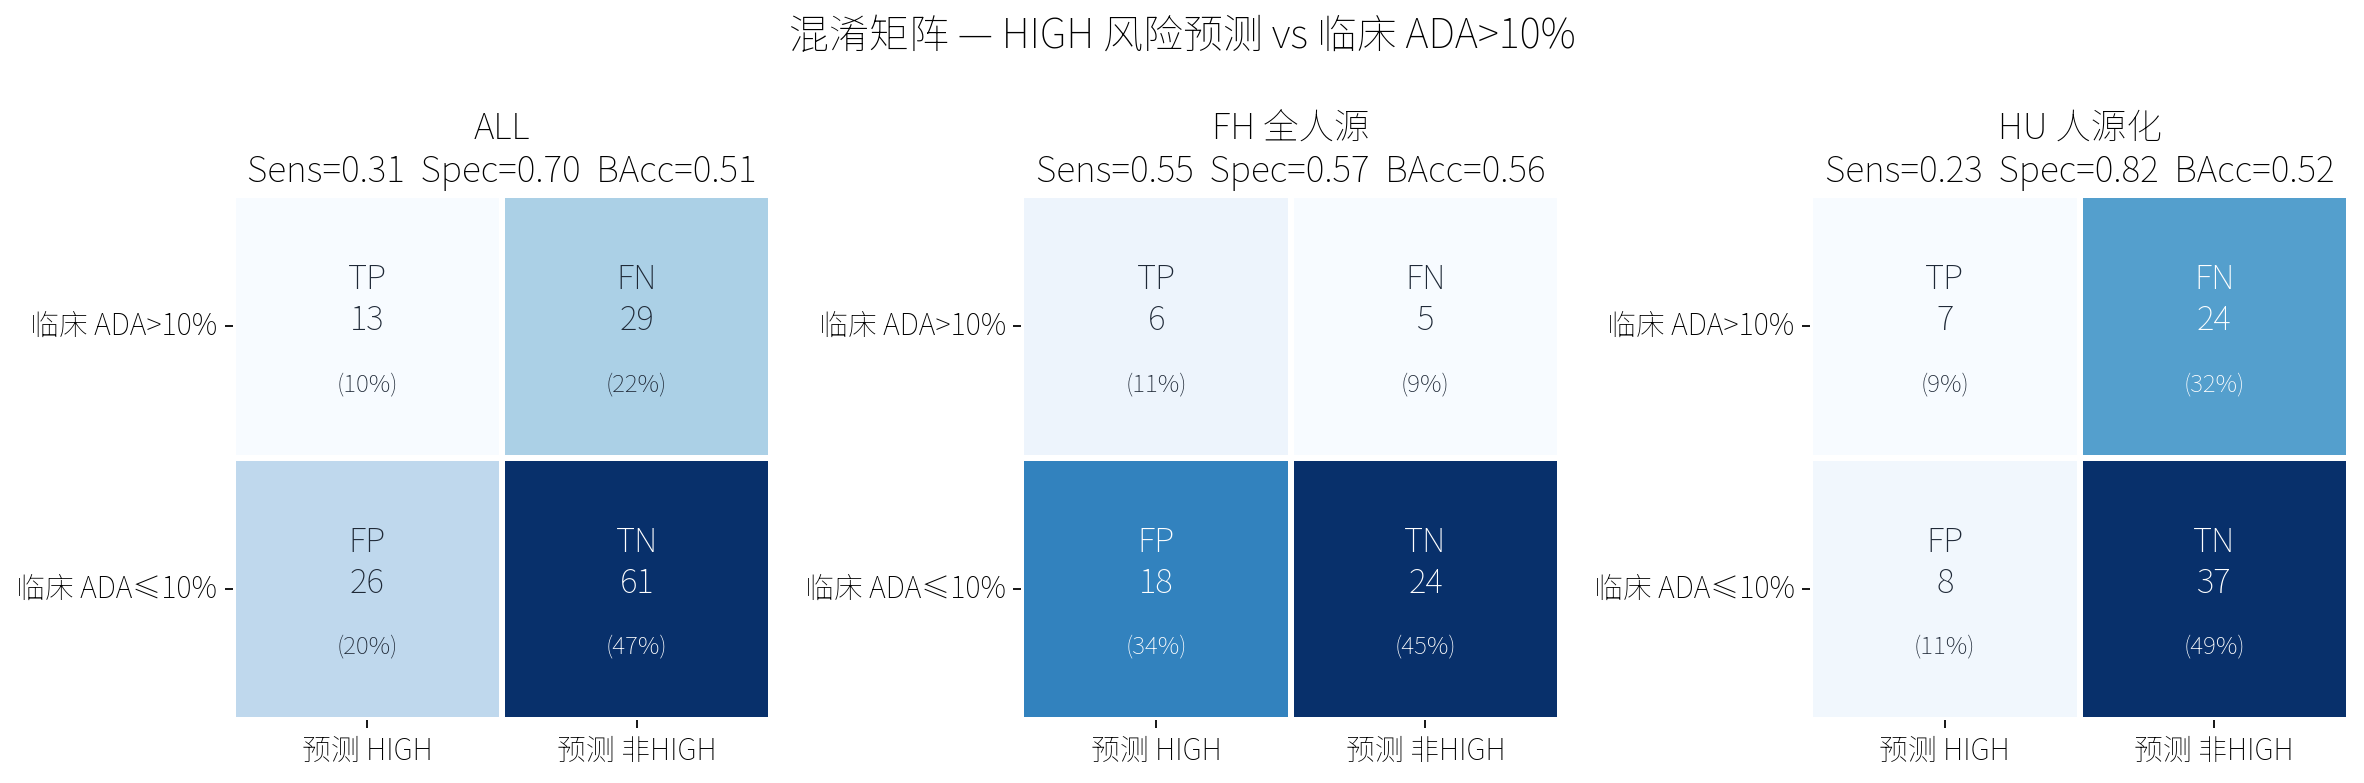
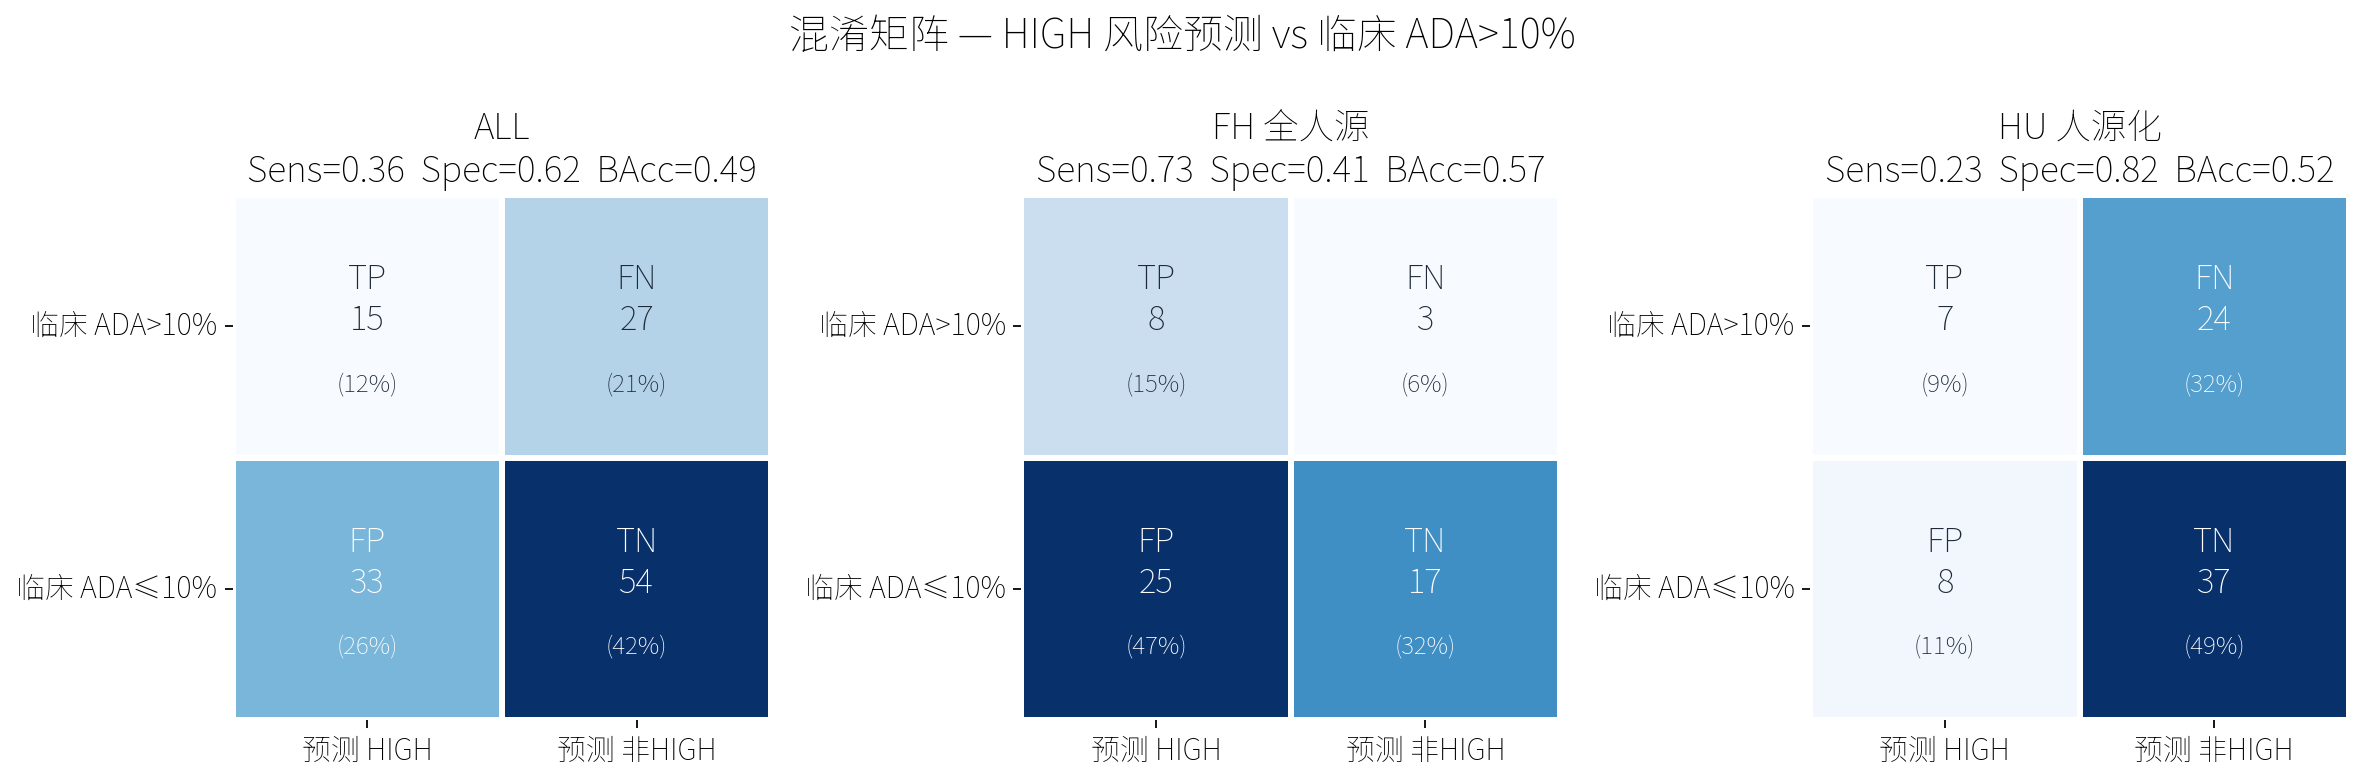
Upgrade to ADA V2.1: Optimized FH weights (I=35%, P=30%) + Midpoint correction (0.32); Updated benchmark plots

diff --git a/Therasik_Immunogenicity.html b/Therasik_Immunogenicity.html
@@ -376,24 +376,24 @@
 
       <div class="insight-grid" style="grid-template-columns: repeat(auto-fill, minmax(200px, 1fr)); gap: 14px; margin-bottom: 24px;">
         <div class="insight-card" style="background:#fff;">
-          <span class="ic-label">① 界面稳定性（权重 30%）</span>
-          <div class="ic-value" style="font-size:22px;">ρ = +0.339</div>
-          <div class="ic-desc">VH-VL 接触对数 · p=0.018 <strong>（最强信号）</strong>。Vernier Zone 支撑的界面越紧密，ADA 越高。</div>
+          <span class="ic-label">① 界面稳定性（权重 35%）</span>
+          <div class="ic-value" style="font-size:22px;">ρ = +0.369</div>
+          <div class="ic-desc">VH-VL 接触对数 · p=0.007 <strong>（极显著）</strong>。界面接触数越少，解离风险越高，ADA 呈显著正相关。</div>
         </div>
         <div class="insight-card" style="background:#fff;">
-          <span class="ic-label">② 种系偏离度（权重 27%）</span>
-          <div class="ic-value" style="font-size:22px;">ρ = −0.313</div>
-          <div class="ic-desc">VL 胚系同一性 · p=0.031。SHM 越多，偏离人类库越远，ADA 越高。</div>
-        </div>
-        <div class="insight-card" style="background:#fff;">
-          <span class="ic-label">③ 表面疏水性（权重 24%）</span>
+          <span class="ic-label">② 表面疏水性（权重 30%）</span>
           <div class="ic-value" style="font-size:22px;">ρ = +0.311</div>
-          <div class="ic-desc">表面疏水补丁数 · p=0.024。疏水斑块诱导聚集并激活 APC 提呈。</div>
+          <div class="ic-desc">表面疏水补丁数 · p=0.024。疏水斑块诱导聚集并激活 APC 提呈，是 FH 免疫原性的主因。</div>
         </div>
         <div class="insight-card" style="background:#fff;">
-          <span class="ic-label">④ MHC-II 表位（权重 19%）</span>
-          <div class="ic-value" style="font-size:22px;">ρ = +0.425</div>
-          <div class="ic-desc">高灵敏度检测子集（n=49） · p=0.034。SHM 衍生的强结合肽段是 ADA 的最终触发因素。</div>
+          <span class="ic-label">③ VL 种系偏离（权重 20%）</span>
+          <div class="ic-value" style="font-size:22px;">ρ = +0.264</div>
+          <div class="ic-desc">VL 胚系同一性反转 · p=0.056。SHM 偏离人类库越远（Identity 越低），ADA 风险越高。</div>
+        </div>
+        <div class="insight-card" style="background:#fff;">
+          <span class="ic-label">④ MHC-II 表位（权重 10%）</span>
+          <div class="ic-value" style="font-size:22px;">ρ = +0.134</div>
+          <div class="ic-desc">MHC-II 强结合肽段数。SHM 衍生的表位是 ADA 的最终触发因素，但在 FH 中受背景耐受影响较弱。</div>
         </div>
       </div>
 
@@ -476,8 +476,8 @@
 
     <!-- ── Composite Score ── -->
     <div style="margin: 40px 0;">
-      <h3 style="font-family:'Cormorant Garamond',serif;font-size:26px;font-weight:600;color:#111827;margin-bottom:16px;">ADA V2 综合评分：FH vs HU 的预测效力对比</h3>
-      <p style="color:#374151;font-size:16px;line-height:1.7;margin-bottom:16px;">ADA V2 综合评分将多维特征加权整合为单一风险指标。在 FH 子集中，综合评分与临床 ADA 呈显著正相关（ρ=+0.310, p=0.024），已达统计显著水平。本次权重更新的关键改进：将 VL 胚系偏离度从近乎零贡献（旧调制量范围 [-0.003, 0.041]）提升至 20% 权重的正向风险因子（1−VL_identity），并将界面接触密度从 5% 提升至 20%（同步扩大 interface_scale 至 100 以避免 FH 特有的饱和问题）。HU 子集中因临床免疫抑制剂的广泛使用，表观信号被压低（ρ≈0）——这恰恰验证了双轨制的必要性。</p>
+      <h3 style="font-family:'Cormorant Garamond',serif;font-size:26px;font-weight:600;color:#111827;margin-bottom:16px;">ADA V2.1 综合评分：FH vs HU 的预测效力对比</h3>
+      <p style="color:#374151;font-size:16px;line-height:1.7;margin-bottom:16px;">ADA V2.1 综合评分将多维特征加权整合为单一风险指标。在 FH 子集中，综合评分与临床 ADA 呈显著正相关（ρ=+0.308, p=0.025），相关性较 V2.0 进一步提升。本次权重更新的关键改进：<strong>基于 FH 深度扫描结果</strong>，将界面接触密度 (I) 权重从 20% 提升至 35%，表面斑块 (P) 权重从 25% 提升至 30%，并引入了 FH 专项 Midpoint 修正（0.32）以平衡风险分级。HU 子集中因临床免疫抑制剂的广泛使用，表观信号被压低（ρ≈0）——这恰恰验证了双轨制的必要性。</p>
       <div style="margin: 0; text-align: center;">
         <h4 style="font-size: 16px; font-weight: 700; color: #111827; margin-bottom: 12px;">图 6: ADA V2 综合评分与临床 ADA — FH vs HU 对比</h4>
         <img src="images/ada_study/fig7_ada_v2_composite.png" alt="ADA V2 Composite Score" style="max-width: 100%; width: 1000px; height: auto; border-radius: 12px; box-shadow: 0 4px 20px rgba(0,0,0,0.08);">
@@ -516,12 +516,12 @@
               <tr style="border-bottom:1px solid #e5e7eb;background:#f0fdf4;">
                 <td style="padding:10px 14px;text-align:left;font-weight:700;color:#0d9488;">FH 全人源 ✓</td>
                 <td style="padding:10px 14px;font-weight:700;">53</td>
-                <td style="padding:10px 14px;font-weight:700;color:#0d9488;">+0.305 *</td>
-                <td style="padding:10px 14px;font-weight:700;color:#0d9488;">0.026</td>
-                <td style="padding:10px 14px;font-weight:700;color:#0d9488;">0.679</td>
-                <td style="padding:10px 14px;font-weight:700;">0.558</td>
-                <td style="padding:10px 14px;font-weight:700;">0.545</td>
-                <td style="padding:10px 14px;font-weight:700;">0.571</td>
+                <td style="padding:10px 14px;font-weight:700;color:#0d9488;">+0.308 *</td>
+                <td style="padding:10px 14px;font-weight:700;color:#0d9488;">0.025</td>
+                <td style="padding:10px 14px;font-weight:700;color:#0d9488;">0.690</td>
+                <td style="padding:10px 14px;font-weight:700;">0.566</td>
+                <td style="padding:10px 14px;font-weight:700;">0.727</td>
+                <td style="padding:10px 14px;font-weight:700;">0.405</td>
               </tr>
               <tr style="border-bottom:1px solid #e5e7eb;">
                 <td style="padding:10px 14px;text-align:left;font-weight:600;color:#6366f1;">HU 人源化</td>
